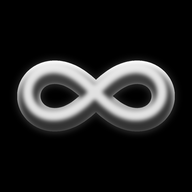
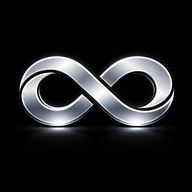
v3.10.4: aplica icone infinito cromado 3D (imagem escolhida pelo Kaick) tambem na notificacao

Changed region(s): [[0.0625, 0.2812, 0.9375, 0.7188]]

diff --git a/js/app.js b/js/app.js
@@ -1,8 +1,8 @@
 /* ===== Finanças 2026 — App (v2) ===== */
 let DATA = { year: 2026, saldoInicial: 0, receitas: [], fixas: [], cartao: [], diaria: [], metas: {} };
 window.CRYPTO_KEY = null;
-const APP_VERSION = "3.10.3";
-const VERSION_NOTES = "♾️ ícone novo — infinito ∞ branco em 3D (brilho/volume) sobre preto opaco (também na notificação)";
+const APP_VERSION = "3.10.4";
+const VERSION_NOTES = "♾️ ícone novo — infinito ∞ cromado 3D no preto (a imagem que você escolheu) · também na notificação";
 let history = [];
 let redoStack = [];
 let lastSnap = JSON.stringify(DATA);

diff --git a/sw.js b/sw.js
@@ -1,5 +1,5 @@
 /* Service Worker — network-first (sempre busca a versão nova; cache só offline) */
-const CACHE = "financas-v38";
+const CACHE = "financas-v39";
 const ASSETS = [
   "./", "./index.html",
   "./css/styles.css",